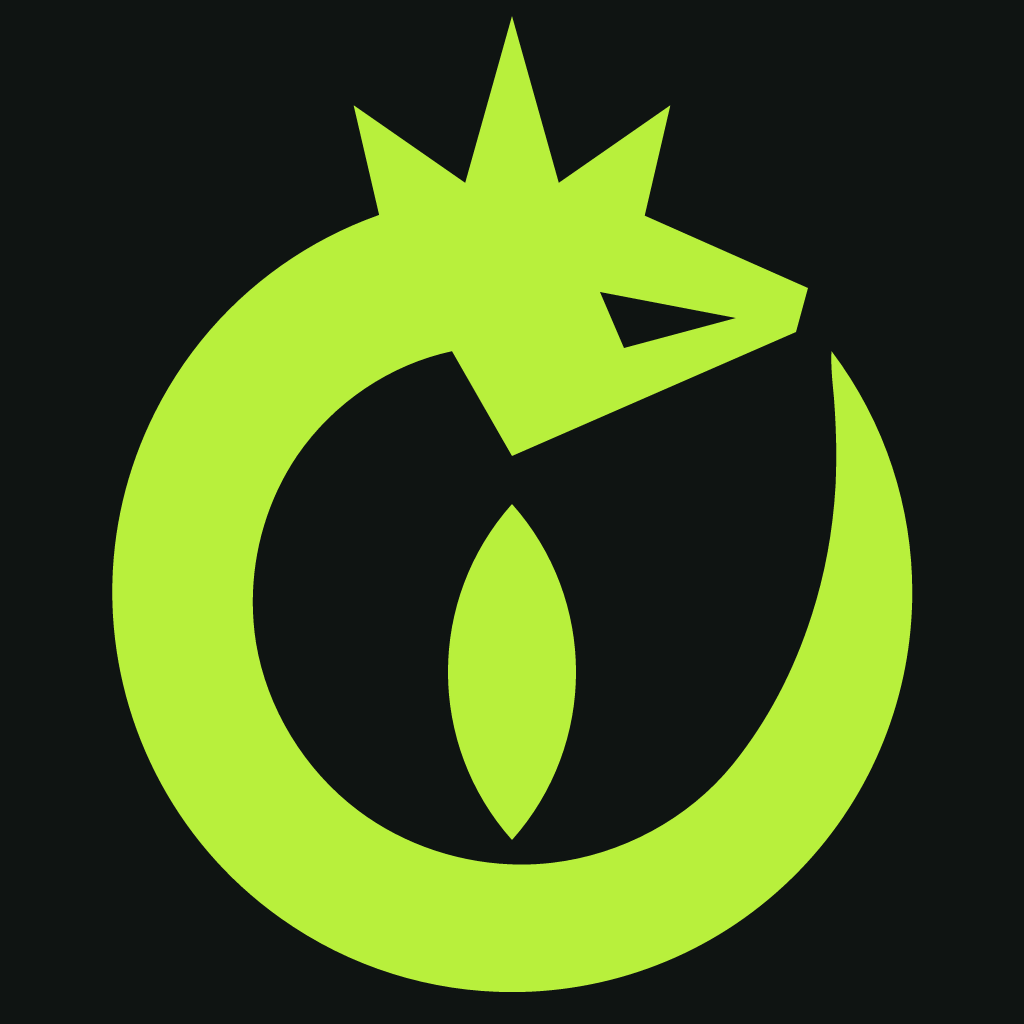
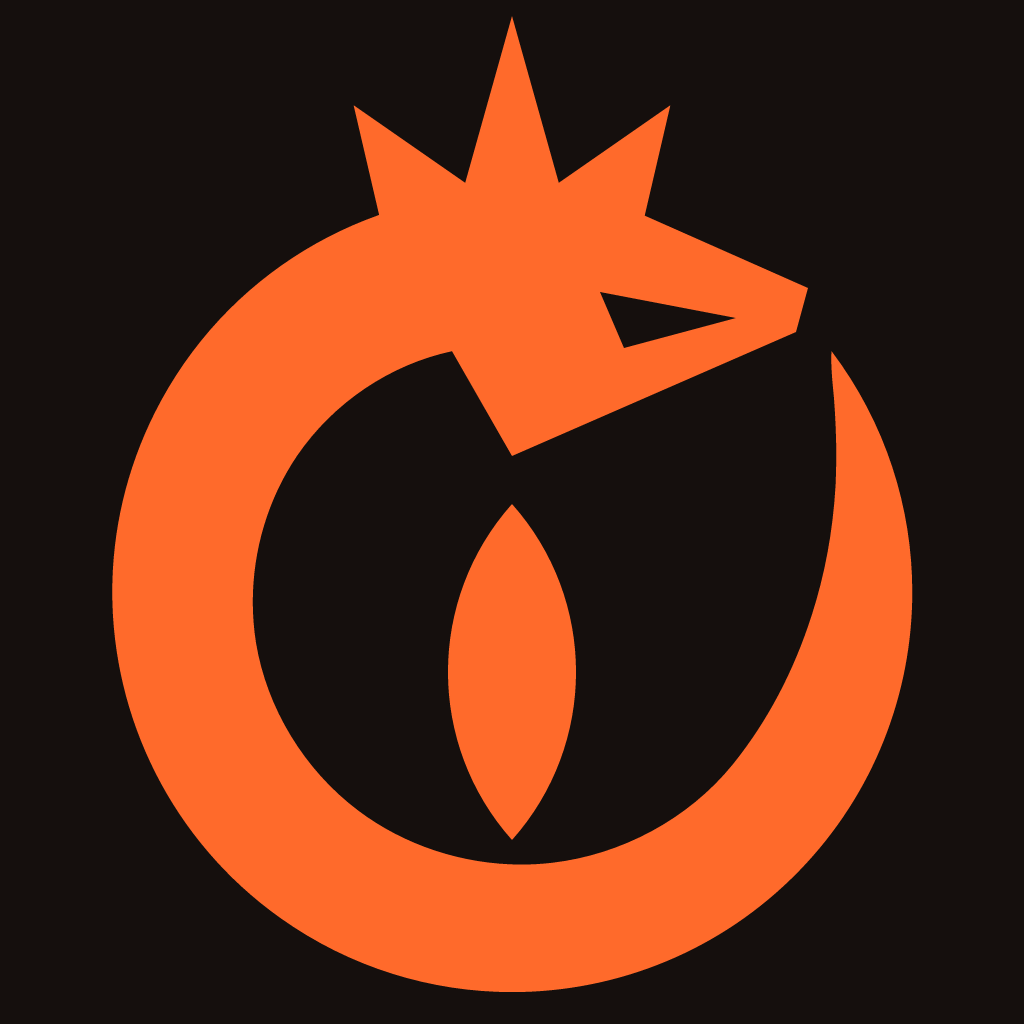
feat(brand): rebuild the basilisk set in ember orange
The owner picked colour variant A4. Recolour the mark, logos and icon
to Ember #FF6A2B on Soot #150F0D, with Ember deep #E8551A for light
backgrounds (Ember alone is 2.9:1 on white) and a warm Bone for the
wordmark on dark. Thicken the 16/32 px icon, which reads dimmer in
orange than it did in green. Re-render the PNGs and preview sheets
and update the palette and usage notes.

diff --git a/assets/brand/README.md b/assets/brand/README.md
@@ -19,35 +19,48 @@ head and the tail. Head, crown, pupil and tail all end in sharp points;
 everything else is one circle. In the icon the ring is centred on the tile.
 
 It sits in the same family as Ghidra's dragon (a mythical beast as a flat
-emblem, coiled) but shares no shapes, colour or lettering with it: this is
-a legless, wingless serpent in green, built from one circle, with an eye in
-the middle. It uses no Rust or Ferris artwork.
+emblem, coiled) but shares no shapes or lettering with it: this is a
+legless, wingless serpent built from one circle, with an eye in the
+middle. It uses no Rust or Ferris artwork.
 
 ## Palette
 
-| Name     | Hex       | Use                                             |
-|----------|-----------|-------------------------------------------------|
-| Venom    | `#B8F03C` | The mark on dark backgrounds; accents           |
-| Moss     | `#4A8500` | The mark on light backgrounds (4.5:1 on white)  |
-| Obsidian | `#0F1412` | Icon tile, dark backgrounds, wordmark on light  |
-| Bone     | `#E9EEE2` | Wordmark and text on dark                       |
+Ember orange was the owner's choice (variant A4 below), replacing the
+first, acid-green palette.
+
+| Name       | Hex       | Use                                            |
+|------------|-----------|------------------------------------------------|
+| Ember      | `#FF6A2B` | The mark on dark backgrounds; accents          |
+| Ember deep | `#E8551A` | The mark on light backgrounds                  |
+| Soot       | `#150F0D` | Icon tile, dark backgrounds, wordmark on light |
+| Bone       | `#F1ECE6` | Wordmark and text on dark                      |
 
 Flat colour only. No gradients, glows, outlines or shadows.
+
+Measured contrast (WCAG ratio): Ember on Soot 6.6:1; Bone on Soot 16.2:1;
+Soot on white 19.0:1. Ember on white is only 2.9:1, under the 3:1 a
+graphic needs, which is why light backgrounds get Ember deep: 3.7:1 on
+white (and 5.2:1 on Soot, so it also survives a dark background).
+
+Ember is hue 18°, a red-orange. Ghidra's dragon and Binary Ninja's mark are
+both reds (hue near 0°; recalled, not sampled from their artwork), so of
+all the colourways tried this one sits closest to them; Ember deep, being darker, reads a little redder still. If
+more distance is wanted, shift both toward amber (hue 30-40°).
 
 ## Files
 
 | File                       | Use it for                                                        |
 |----------------------------|-------------------------------------------------------------------|
-| `basilisk-mark.svg`        | Emblem alone, Venom, transparent. Dark backgrounds (in-app, about box, dark docs). |
-| `basilisk-mark-light.svg`  | Emblem alone, Moss, transparent. Light backgrounds.               |
+| `basilisk-mark.svg`        | Emblem alone, Ember, transparent. Dark backgrounds (in-app, about box, dark docs). |
+| `basilisk-mark-light.svg`  | Emblem alone, Ember deep, transparent. Light backgrounds.         |
 | `basilisk-mark-mono.svg`   | Emblem in `currentColor`. One-colour print, UI glyphs, anything that must inherit the text colour. |
 | `basilisk-logo.svg`        | Emblem + wordmark for light backgrounds.                          |
 | `basilisk-logo-dark.svg`   | Emblem + wordmark for dark backgrounds.                           |
-| `basilisk-icon.svg`        | App icon: emblem on the Obsidian tile. Source for 64 px and up.   |
-| `basilisk-icon-small.svg`  | Simplified icon for 16 and 32 px: heavier ring, no head eye, pupil centred on the pixel grid. |
+| `basilisk-icon.svg`        | App icon: emblem on the Soot tile.     Source for 64 px and up.   |
+| `basilisk-icon-small.svg`  | Simplified icon for 16 and 32 px: heavier, fuller ring, bigger crown and pupil, no head eye, pupil centred on the pixel grid. |
 | `png/basilisk-icon-N.png`  | Icon renders at 16, 32, 64, 128, 256, 512, 1024 px (window icon, favicon, bundles). |
-| `png/preview-*.png`        | Previews only (mark, both logos, overview sheet). Not for shipping. |
-| `variants/`                | Colour, shape and tile variants of the icon to choose from, see below. |
+| `png/preview-*.png`        | Previews only (mark, both logos, overview and variants sheets). Not for shipping. |
+| `variants/`                | The colour, shape and tile variants the palette was chosen from, see below. |
 | `concepts/`                | Rejected directions, see below.                                   |
 
 For a README that follows the viewer's theme:
@@ -72,7 +85,7 @@ dots on the two i's repeat the slit pupil.
 - Icon: 16 px minimum. At 16 px it reads as a crowned ring with a slit; the
   serpent's head only resolves from 32 px up.
 - Do not recolour outside the palette, rotate, stretch, outline, or put the
-  Venom mark on a light background (use Moss or mono there).
+  Ember mark on a light background (use Ember deep or mono there).
 
 ## Editing and re-rendering
 
@@ -95,14 +108,16 @@ for s in 64 128 256 512 1024; do resvg -w $s basilisk-icon.svg       png/basilis
 ![variants](png/preview-variants.png)
 
 `variants/` holds alternatives of the same flat mark, each a complete icon
-SVG named by the code on the sheet. They are options, not part of the set:
-pick one (or a colour from row A with a shape from row B) and the main
-files get rebuilt around it.
+SVG named by the code on the sheet. They are options, not part of the set.
+The owner picked **A4, ember**, for the colour; the main files are built
+from A4 with the shape and tile unchanged (B1 on the rounded square). Rows
+B and C are still drawn in the first green.
 
-- **A, colour** (same shape): A1 Venom on Obsidian (current), A2 inverted,
-  A3 gold, A4 ember, A5 glass cyan, A6 nightshade violet, A7 bone,
-  A8 bone with a Venom pupil, A9 Venom with an ember pupil. There is no red
-  on purpose: that is Ghidra's colour.
+- **A, colour** (same shape): A1 Venom green `#B8F03C` on Obsidian
+  `#0F1412` (the first palette), A2 inverted, A3 gold, **A4 ember
+  (chosen)**, A5 glass cyan, A6 nightshade violet, A7 bone, A8 bone with a
+  Venom pupil, A9 Venom with an ember pupil. There is no pure red on
+  purpose: that is Ghidra's colour.
 - **B, shape** (same colour): B1 even ring with lens pupil (current),
   B2 tapered ring (the first version), B3 gem pupil, B4 iris disc with the
   slit cut out, B5 bar pupil (a literal 0 and 1), B6 bold, B7 fine line,
